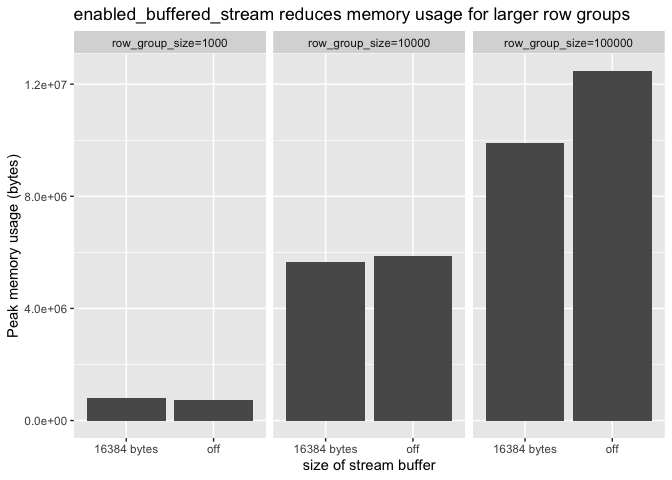
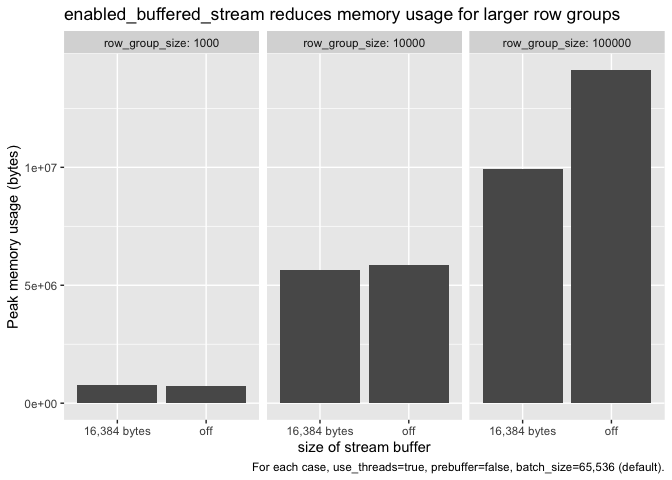
fix: pass in Arrow reader properties

diff --git a/src/main.cc b/src/main.cc
@@ -49,7 +49,7 @@ arrow::Status ReadParquet(ReaderSettings settings)
   arrow_reader_props.set_pre_buffer(settings.prebuffer);
 
   std::unique_ptr<parquet::arrow::FileReader> arrow_reader;
-  ARROW_RETURN_NOT_OK(parquet::arrow::FileReader::Make(pool, std::move(file_reader), &arrow_reader));
+  ARROW_RETURN_NOT_OK(parquet::arrow::FileReader::Make(pool, std::move(file_reader), arrow_reader_props, &arrow_reader));
 
   // std::shared_ptr<arrow::Table> table;
   // ARROW_RETURN_NOT_OK(arrow_reader->ReadTable(&table));

diff --git a/readme.md b/readme.md
@@ -2,7 +2,16 @@ Parquet Read Memory Usage
 ================
 
 The benchmarks in this repo are designed to determine to what degree we
-currently can tune the Arrow C++ Parquet reader to use less memory.
+currently can tune the Arrow C++ Parquet reader to use less memory. The
+Parquet reader is by default tuned to be fast, even if at the cost of
+using more memory. Tuning to use less memory might mean that reading
+Parquet is slower.
+
+To minimize memory use:
+
+1.  Turn prebuffering off
+2.  Set a smaller batch size
+3.  Turn on `use_buffered_stream` (use default buffer size)
 
 ## Analysis
 
@@ -11,20 +20,41 @@ library(arrow)
 library(ggplot2)
 library(dplyr)
 
-data <- read_json_arrow("data.jsonl")
+data <- read_json_arrow("data.jsonl") %>%
+  mutate(
+    use_threads = as.logical(use_threads),
+    use_buffered_stream = as.logical(use_buffered_stream),
+    prebuffer = as.logical(prebuffer)
+  )
 ```
 
 ``` r
 data %>%
-  filter(use_buffered_stream == 1 & use_threads == 1 & prebuffer == 1) %>%
-  ggplot(aes(x = as.factor(row_group_size), y = max_memory)) + 
-    geom_col() +
-    facet_grid(~ batch_size, labeller = as_labeller(function(x) paste0("batch_size=", x))) + 
+  filter(use_buffered_stream & !use_threads & batch_size == 65536) %>%
+  ggplot(aes(x = as.factor(scales::comma(row_group_size)), y = max_memory, fill = prebuffer)) + 
+    geom_col(position = "dodge") +
     labs(
-      title="Peak memory usage determined by row group size",
-      subtitle="Batch size has minimal effect",
-      x = "Number of rows per group",
+      title="Peak memory usage can be much higher with prebuffer=true",
+      x = "Number of rows per row group",
       y = "Peak memory usage (bytes)",
+      caption = "For each case, use_buffered_stream=true, use_threads=false, batch_size=65536 (default)."
+    )
+```
+
+![](readme_files/figure-gfm/prebuffer-1.png)
+
+``` r
+data %>%
+  filter(use_buffered_stream & !use_threads & !prebuffer) %>%
+  ggplot(aes(x = as.factor(batch_size), y = max_memory)) + 
+    geom_col() +
+    facet_grid(~ row_group_size, labeller = label_both) + 
+    labs(
+      title="Peak memory usage determined by row_group_size",
+      subtitle="Batch size helps to a limited degree",
+      x = "Batch size (rows)",
+      y = "Peak memory usage (bytes)",
+      caption = "For each case, use_buffered_stream=true, use_threads=false, prebuffer=false."
     )
 ```
 
@@ -32,20 +62,37 @@ data %>%
 
 ``` r
 data %>%
-  filter(use_threads == 1 & prebuffer == 1 & batch_size == 65536) %>%
+  filter(use_threads & batch_size == 65536 & !prebuffer) %>%
   # Don't show extraneous data points
   filter(use_buffered_stream == 0 | buffer_size == 16384) %>%
   mutate(buffered_stream = as.factor(ifelse(use_buffered_stream == 1, 
-    paste(buffer_size, "bytes"), "off"
+    paste(scales::comma(buffer_size), "bytes"), "off"
   ))) %>%
   ggplot(aes(x = as.factor(buffered_stream), y = max_memory)) + 
     geom_col() +
-    facet_grid( ~ row_group_size, labeller = as_labeller(function(x) paste0("row_group_size=", x))) + 
+    facet_grid(~ row_group_size, labeller = label_both) + 
     labs(
       title="enabled_buffered_stream reduces memory usage for larger row groups",
       x = "size of stream buffer",
       y = "Peak memory usage (bytes)",
+      caption = "For each case, use_threads=true, prebuffer=false, batch_size=65,536 (default)."
     )
 ```
 
 ![](readme_files/figure-gfm/buffered-stream-1.png)
+
+``` r
+data %>%
+  filter(use_buffered_stream & !prebuffer & batch_size == 65536) %>%
+  ggplot(aes(x = use_threads, y = max_memory)) + 
+    geom_col() +
+    facet_grid(~ row_group_size, labeller = as_labeller(function(x) paste0("row_group_size=", x))) + 
+    labs(
+      title="Peak memory usage unaffected by use_threads",
+      x = "use_threads=",
+      y = "Peak memory usage (bytes)",
+      caption = "In all cases shown, use_buffered_stream=true, prebuffer=false, and batch_size=65,536 (default)."
+    )
+```
+
+![](readme_files/figure-gfm/use-threads-1.png)
